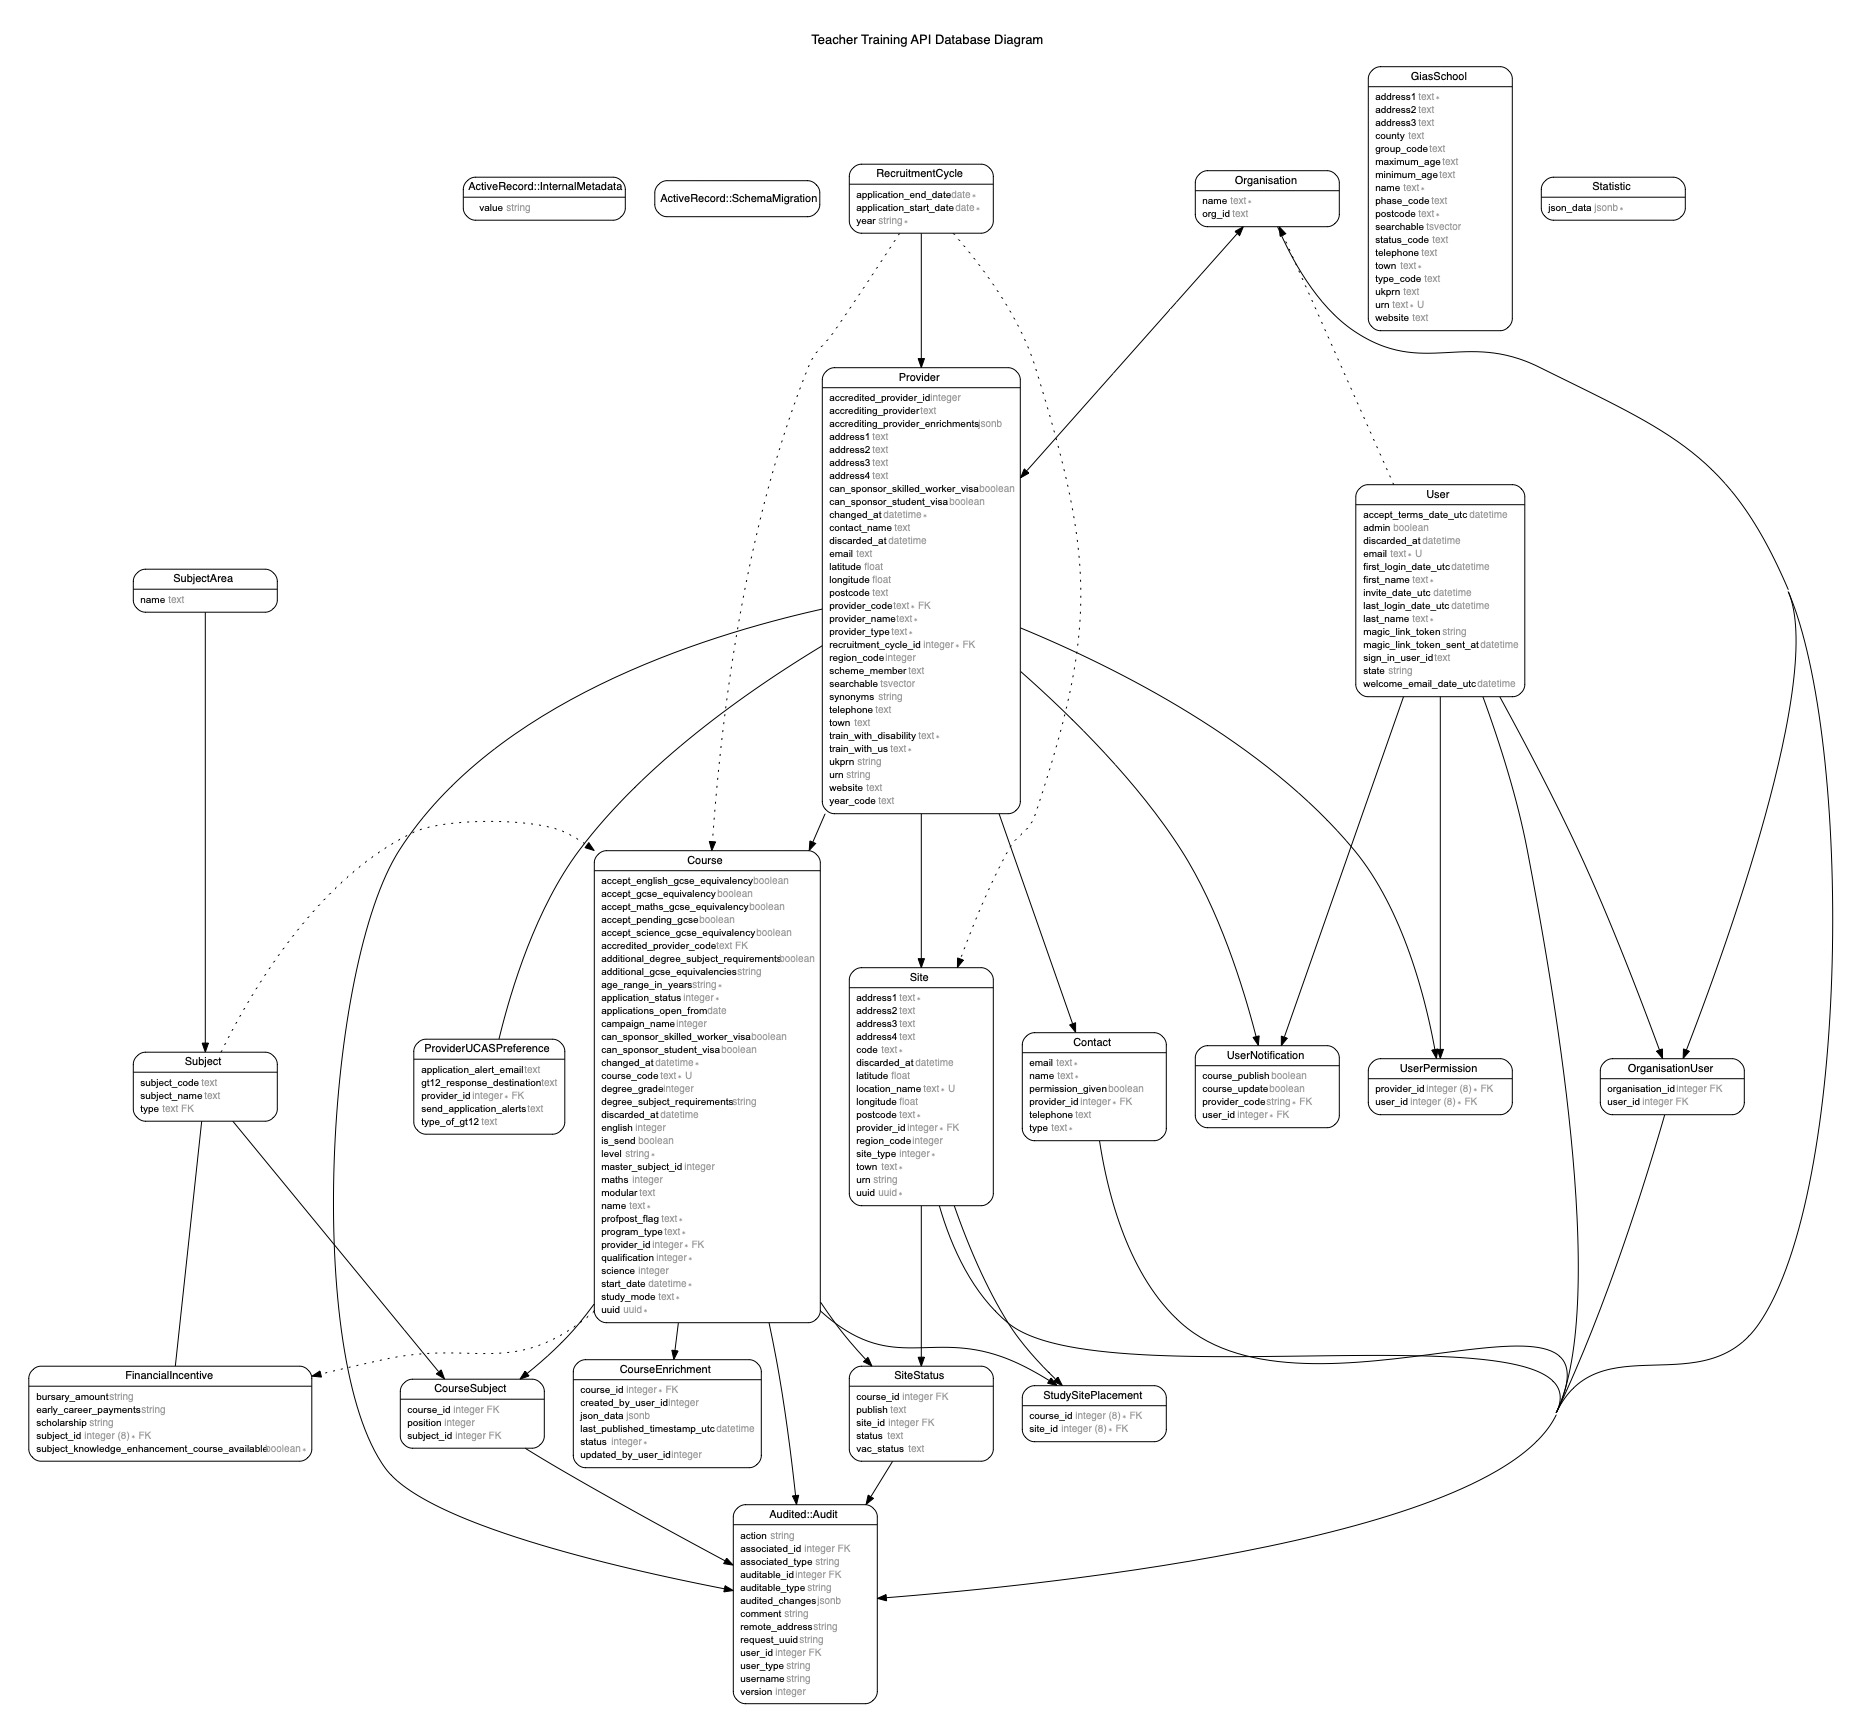
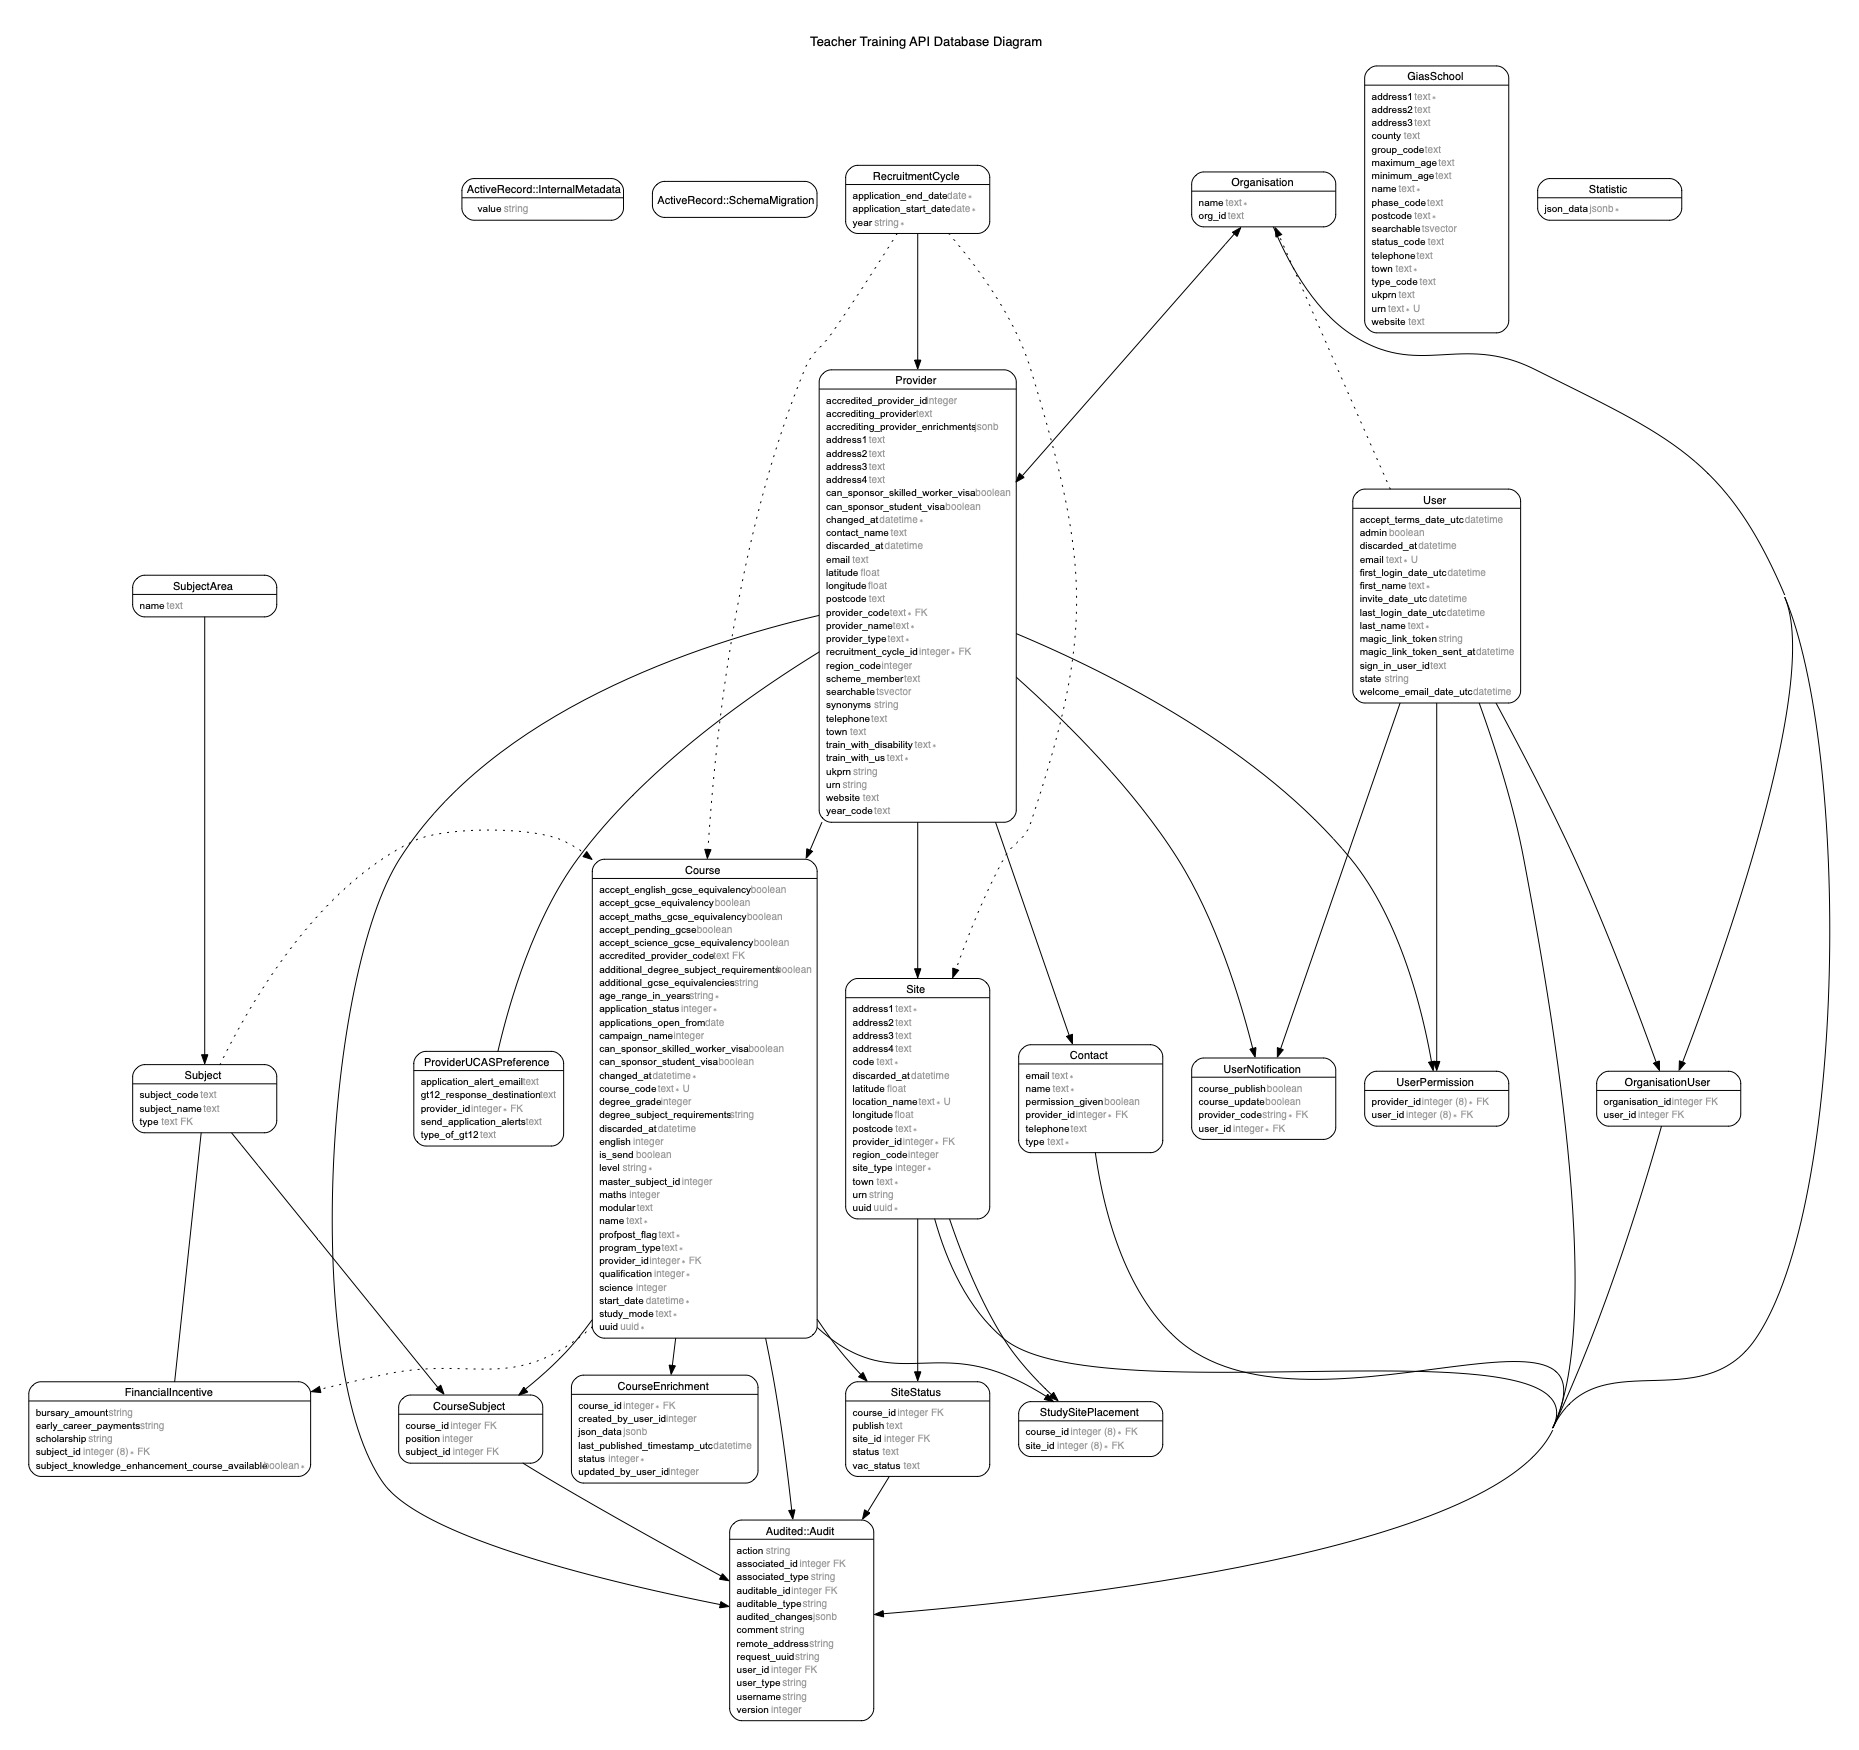
Set a default value of false for visa sponsorship
We don't set a value in these two fields when we onboard a new
provider, yet we are validating for the presence of these
values in order for the provider to be able to publish. We also
offer no way of the provider being able to set these values
themselves.

diff --git a/db/schema.rb b/db/schema.rb
@@ -10,7 +10,7 @@
 #
 # It's strongly recommended that you check this file into your version control system.
 
-ActiveRecord::Schema[7.0].define(version: 2023_09_05_103742) do
+ActiveRecord::Schema[7.0].define(version: 2023_10_01_190537) do
   # These are extensions that must be enabled in order to support this database
   enable_extension "btree_gin"
   enable_extension "btree_gist"
@@ -22,6 +22,21 @@ ActiveRecord::Schema[7.0].define(version: 2023_09_05_103742) do
 
   create_table "__EFMigrationsHistory", primary_key: "MigrationId", id: { type: :string, limit: 150 }, force: :cascade do |t|
     t.string "ProductVersion", limit: 32, null: false
+  end
+
+  create_table "access_request", id: :serial, force: :cascade do |t|
+    t.text "email_address"
+    t.text "first_name"
+    t.text "last_name"
+    t.text "organisation"
+    t.text "reason"
+    t.datetime "request_date_utc", precision: nil, null: false
+    t.integer "requester_id"
+    t.integer "status", null: false
+    t.text "requester_email"
+    t.datetime "discarded_at", precision: nil
+    t.index ["discarded_at"], name: "index_access_request_on_discarded_at"
+    t.index ["requester_id"], name: "IX_access_request_requester_id"
   end
 
   create_table "audit", force: :cascade do |t|
@@ -257,8 +272,8 @@ ActiveRecord::Schema[7.0].define(version: 2023_09_05_103742) do
     t.float "longitude"
     t.string "ukprn"
     t.string "urn"
-    t.boolean "can_sponsor_skilled_worker_visa"
-    t.boolean "can_sponsor_student_visa"
+    t.boolean "can_sponsor_skilled_worker_visa", default: false
+    t.boolean "can_sponsor_student_visa", default: false
     t.string "synonyms", default: [], array: true
     t.integer "accredited_provider_id"
     t.tsvector "searchable"

diff --git a/db/migrate/20231001190537_add_default_visa_sponsorship_values_to_provider_columns.rb b/db/migrate/20231001190537_add_default_visa_sponsorship_values_to_provider_columns.rb
@@ -1,0 +1,10 @@
+# frozen_string_literal: true
+
+class AddDefaultVisaSponsorshipValuesToProviderColumns < ActiveRecord::Migration[7.0]
+  def change
+    change_table :provider, bulk: true do |t|
+      t.change_default :can_sponsor_skilled_worker_visa, from: nil, to: false
+      t.change_default :can_sponsor_student_visa, from: nil, to: false
+    end
+  end
+end
